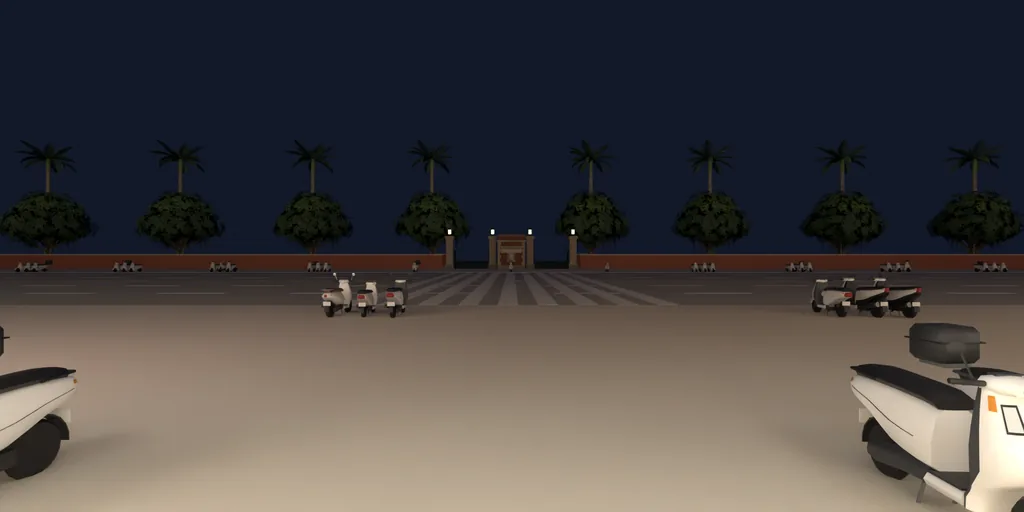
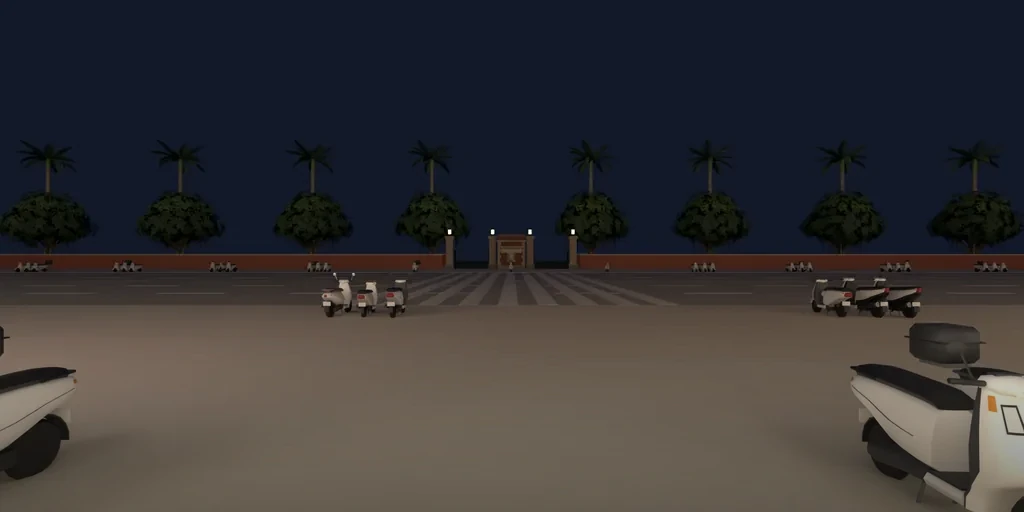
慢輪單車晚上門外地上亮白長方形：夜景照片地面往下漸暗（BB-B 06:43 P3）
- bikeshop_night.webp 地平線以下照高度漸暗，最下面 ×0.52（最下面一成 159 → 90，和書店、便利商店夜景差不多）
- 白天不動，不用改程式

Claude-Session: https://claude.ai/code/session_01GV1WG3UeT2DhuDpxeWJsvD

Changed region(s): [[0.0, 0.6875, 1.0, 1.0]]

diff --git a/docs/art-rebuild/second_ai/wip/bikeshop_night_1108/README.md b/docs/art-rebuild/second_ai/wip/bikeshop_night_1108/README.md
@@ -1,0 +1,31 @@
+# 慢輪單車晚上門外地上一塊亮白長方形（BB-B 11-08 06:43 PC GPU 判定第 2 點，P3；LAWWW2-B 修，D108 場景）
+
+**狀態：交件**。只換一張窗景照片，不用改程式。
+
+## 現象
+- 證據：cc-testing `CC/logs/LM2_LM3_gpu/bikeshop.jpg`，「out 1930」那張（從店裡往門口看，19:30）。
+- 門外地上有一塊很亮的白色長方形，旁邊的街景是暗的。白天正常，其他店晚上沒有這樣。
+
+## 原因
+- 慢輪的櫥窗、門外是同一片視差窗景（`Z3.ggViewPanes`：兩扇櫥窗合成一片、放大到蓋住整面店面）。照片是 `assets/models/env/views/bikeshop_{day,night}.webp`，WINVIEW-AUDIT-1105 用 Blender 從櫥窗中間拍的。
+- 晚上那張的下半部（店門口的騎樓地面）被騎樓的燈照得很亮：最下面一成平均 159。同一條街的書店、便利商店夜景同一個位置約 85。
+- 櫥窗有窗台，只看得到照片上半部（暗的街景）；門開著、門洞一直到地上，看得到照片最下面那段亮的地面。所以只有門洞那一塊亮。
+
+## 怎麼改
+- `bikeshop_night.webp` 地平線以下（照片高度 52% 以下）照高度往下漸暗，最下面 ×0.52：
+  - 改前，由上往下每一成的平均亮度：25, 25, 25, 24, 23, 52, 96, 125, 144, 159
+  - 改後：25, 25, 25, 24, 23, 50, 83, 96, 97, 90
+- 地面還是暖色、看得出騎樓有燈，只是不再比街上其他東西亮一截。
+- 白天那張不動。
+
+![改前（上）、改後（下）](bikeshop_night_before_after.jpg)
+
+## 要換的檔
+| 檔案 | sha256（開發 → 這一版） | 大小 |
+|---|---|---|
+| `assets/models/env/views/bikeshop_night.webp` | `aaa81711…` → `3294ef34…` | 14,962 → 18,380 B |
+
+- 照片是 LAWWW2 拍的（e29912473）。
+
+## 還沒驗
+- CC 用同一個機位重拍 out 1930，BB-B 判。
